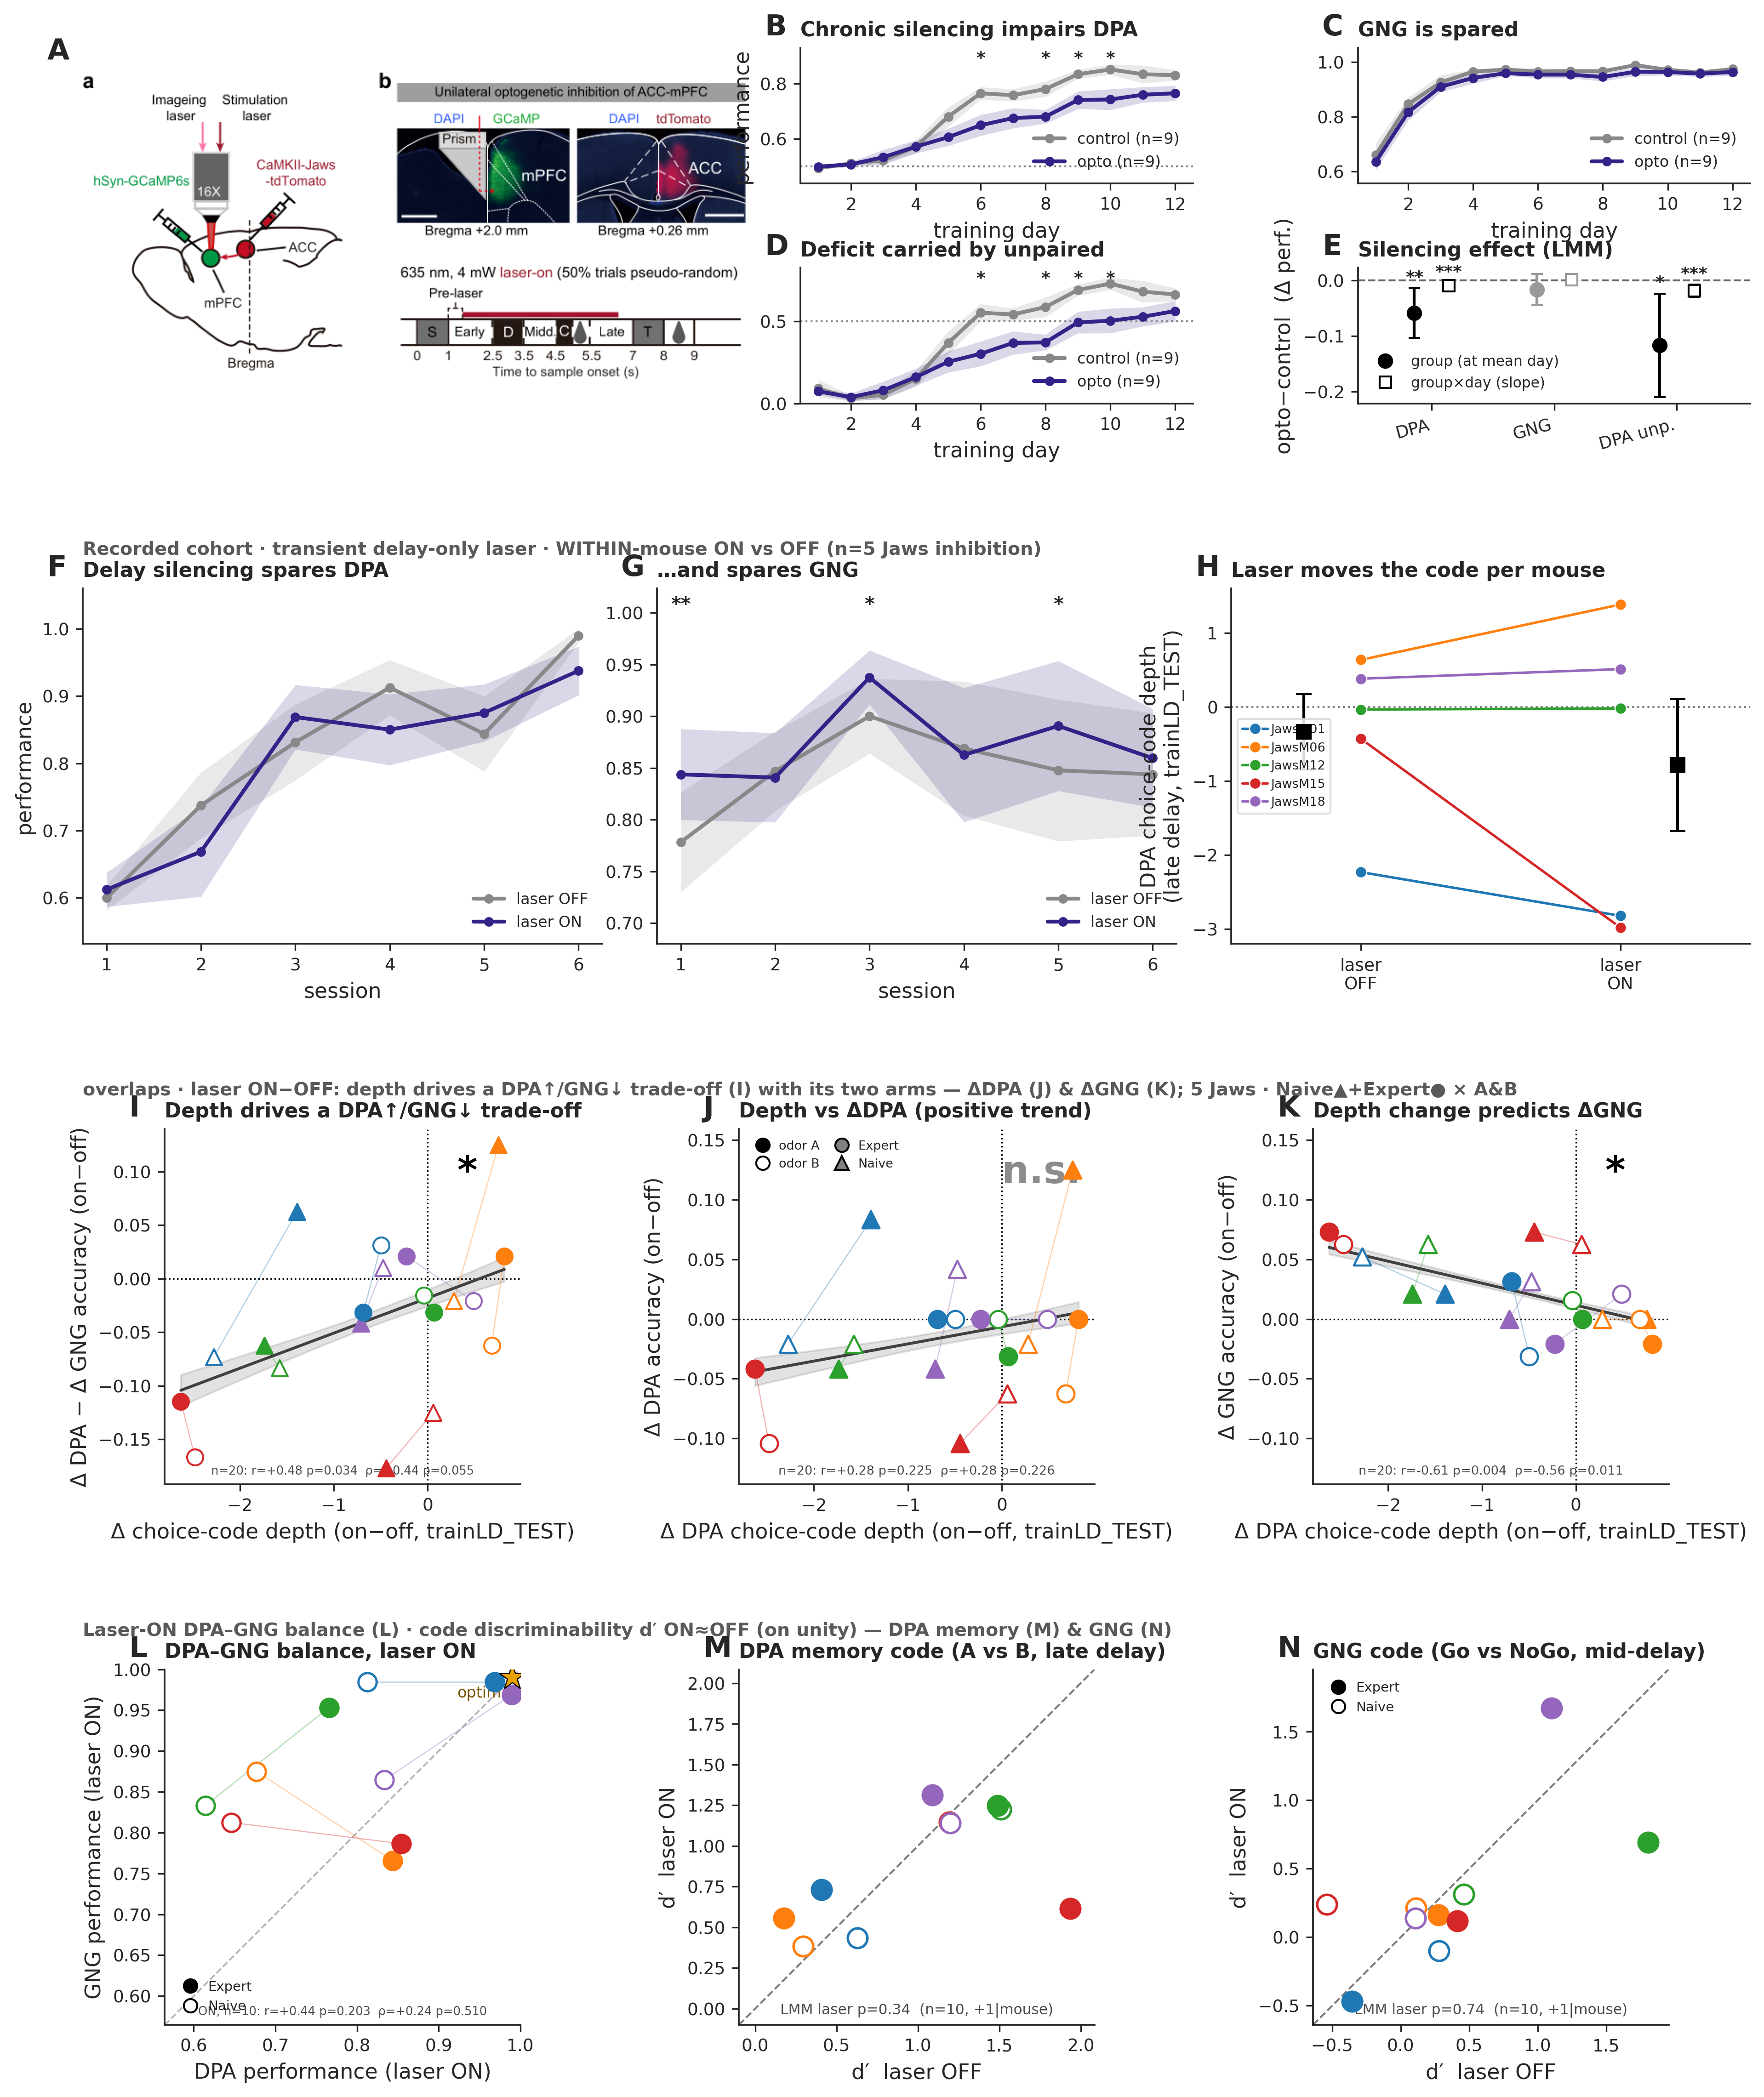
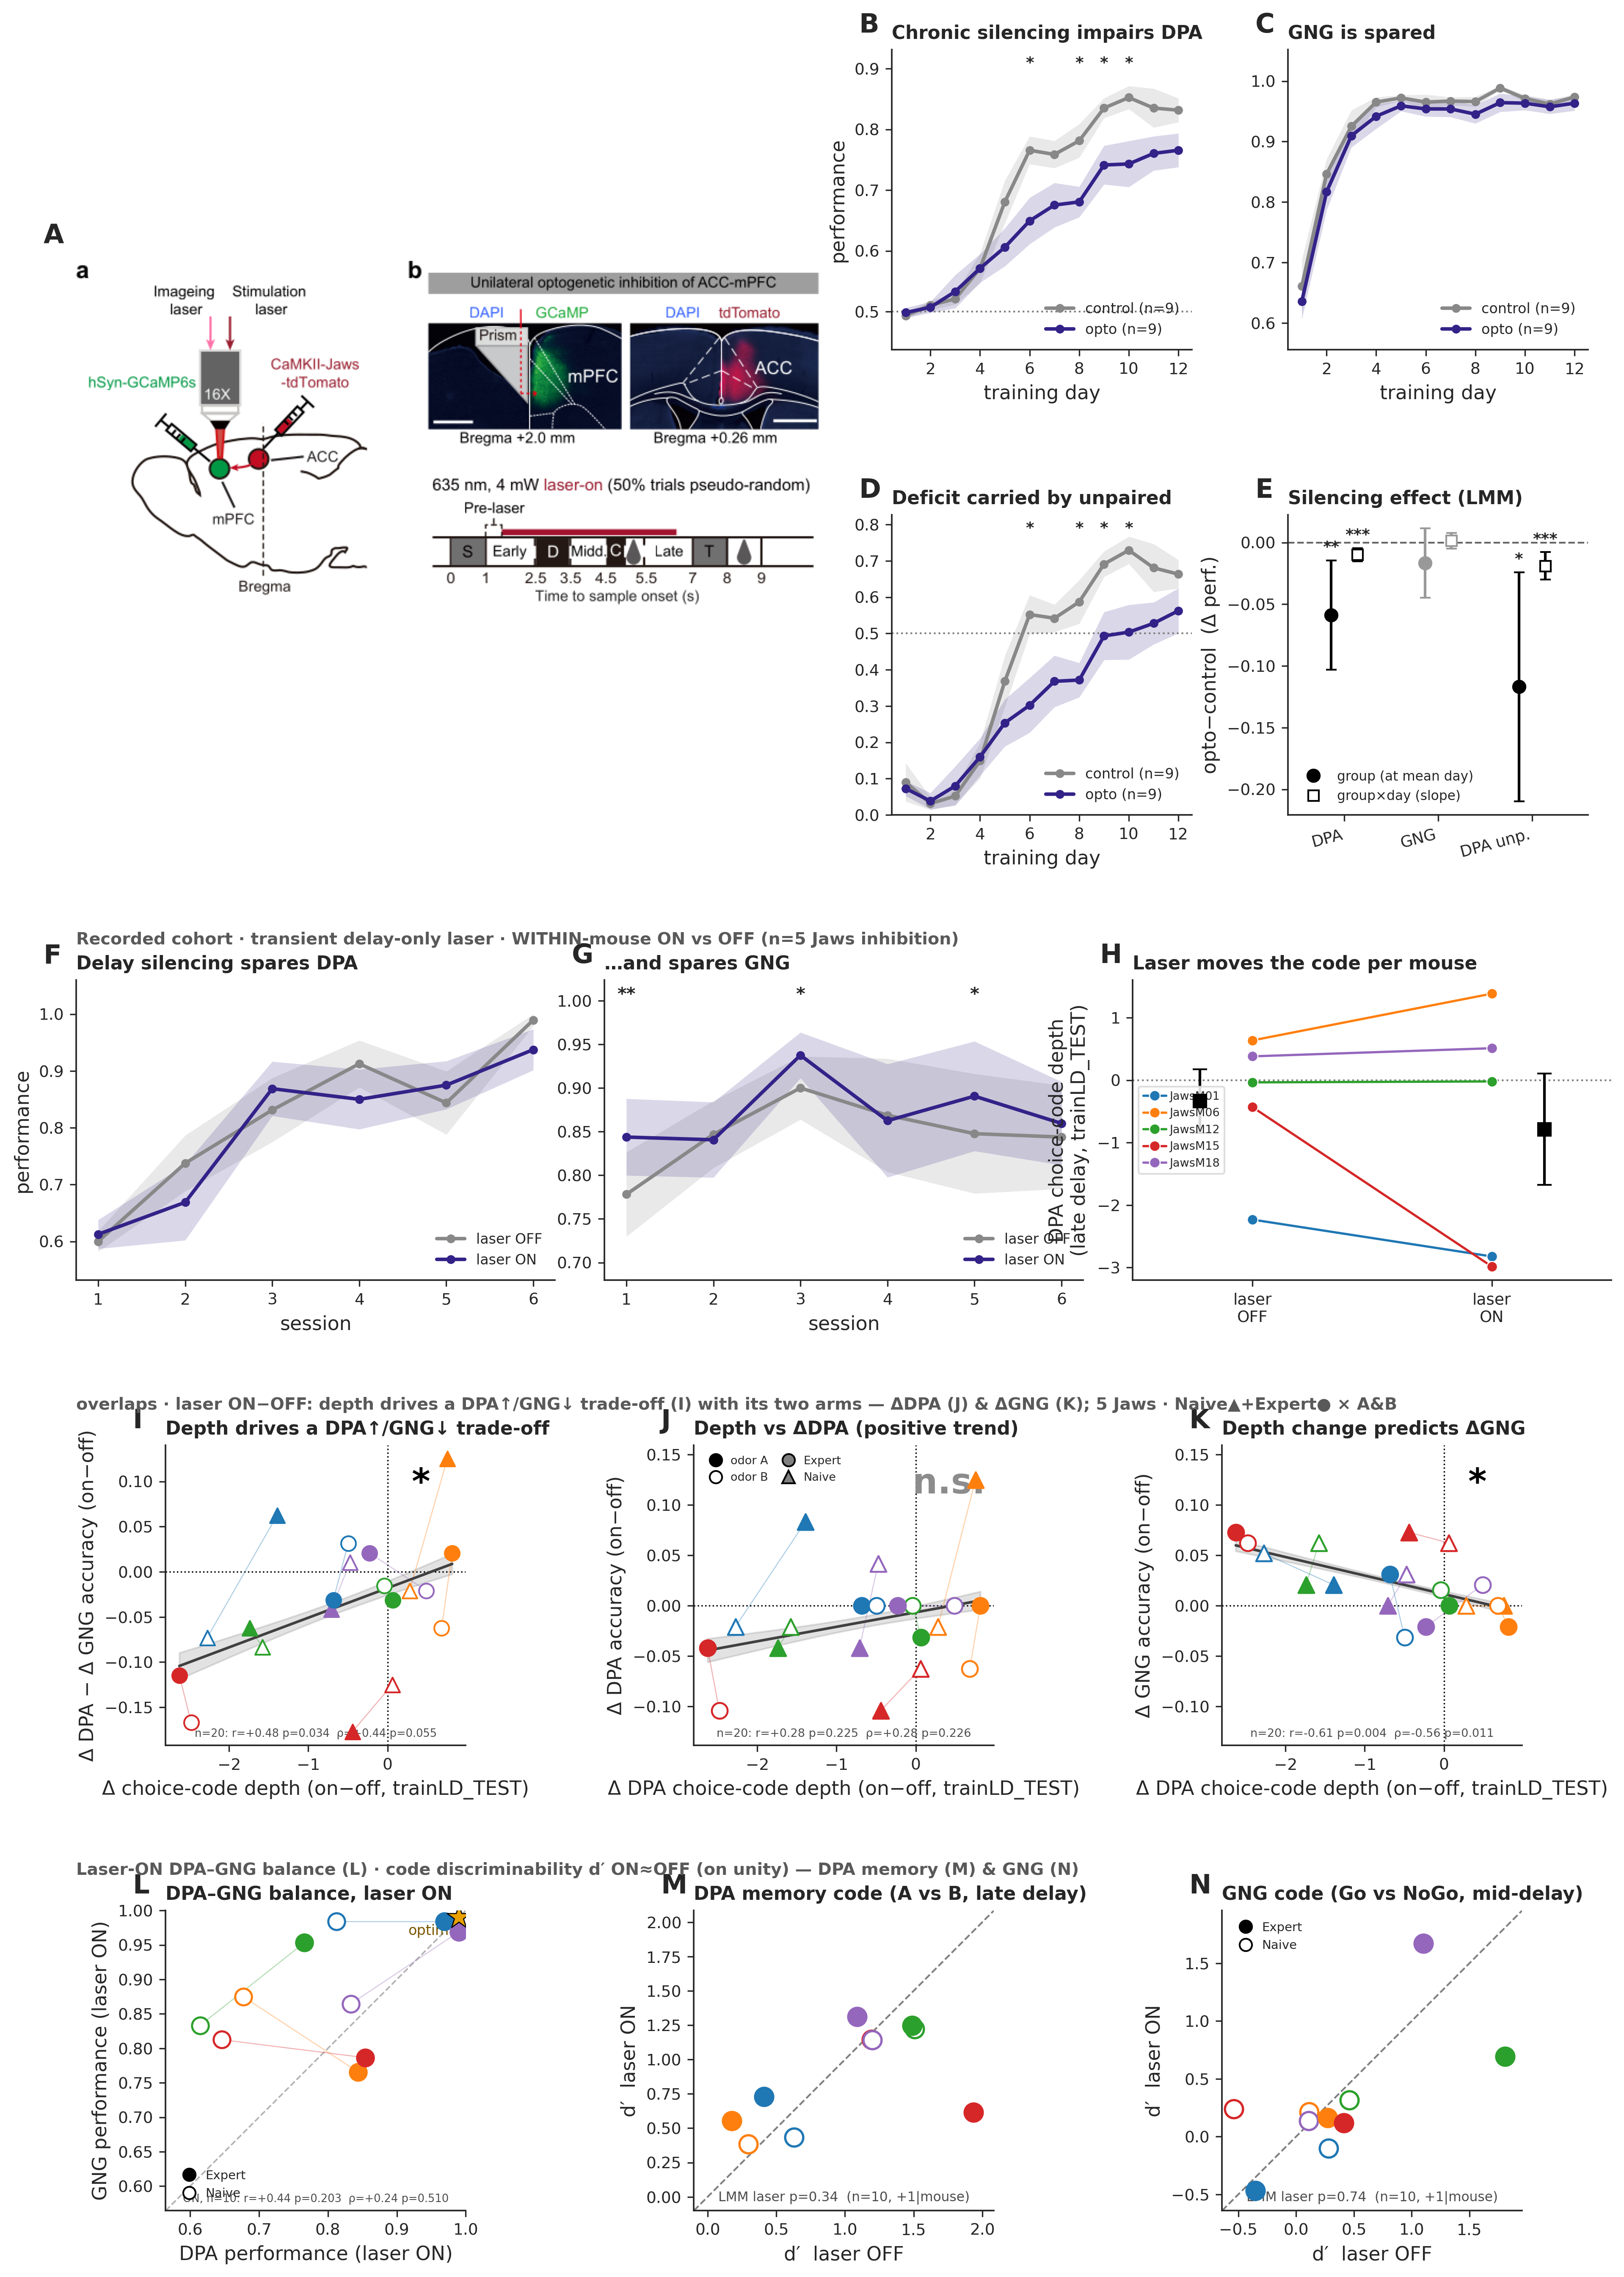
behavior(opto fig): make B-E square — 5 equal rows, A spans top two
box_aspect(1) couldn't square B-E while they were a 2x2 crammed into one short
half-row. Gave each B-E a full row instead: scheme A now spans the top two rows
(gs[0:2, 0:6], left) and batch B/C (row 0) + D/E (row 1) fill the right as a 2x2,
each set_box_aspect(1) -> square. F/G/H, I/J/K, L/M/N follow as rows 3-5.

Single 5 equal-height row gridspec (figsize 13x18.2); reading order stays A-N.
Doc/memory updated.

Claude-Session: https://claude.ai/code/session_01FkQwEmLP97jemLkLvMRg9f

diff --git a/overlaps/fig_behavior_opto_main.py b/overlaps/fig_behavior_opto_main.py
@@ -416,11 +416,11 @@ def regression_band(ax, xs, ys, color='0.25'):
 # ══════════════════════════════════════════════════════════════════════════════
 # FIGURE
 # ══════════════════════════════════════════════════════════════════════════════
-fig = plt.figure(figsize=(13, 15.5))
-# 4 equal-height rows. Top row = scheme A (left) + batch B–E as a 2×2 block (right).
-gs = fig.add_gridspec(4, 12, height_ratios=[1, 1, 1, 1], hspace=0.52, wspace=0.62,
-                      left=0.055, right=0.985, top=0.975, bottom=0.05)
-gs_be = gs[0, 5:12].subgridspec(2, 2, hspace=0.62, wspace=0.42)
+fig = plt.figure(figsize=(13, 18.2))
+# 5 equal-height rows. Scheme A spans the top two rows (left); batch B/C and D/E each
+# get a full row on the right (a 2×2 next to A) so the panels come out square.
+gs = fig.add_gridspec(5, 12, height_ratios=[1, 1, 1, 1, 1], hspace=0.55, wspace=0.6,
+                      left=0.055, right=0.985, top=0.98, bottom=0.045)
 
 
 def panel_letter(ax, L, dx=0.020, dy=0.016):
@@ -437,12 +437,12 @@ def show_scheme(ax, path, aspect='equal'):
 
 # ── A: opto scheme banner ─────────────────────────────────────────────────────
 SCHEME = '../opto.png'                        # recorded-cohort design (self-labelled a/b)
-axA = fig.add_subplot(gs[0, 0:5])
+axA = fig.add_subplot(gs[0:2, 0:6])          # scheme spans the top two rows (left)
 show_scheme(axA, SCHEME)                      # aspect='equal' — no distortion
 
 # ── B, C: recorded OFF vs ON learning curves (Jaws inhibition) — ROW 2 ─────────
-axB = fig.add_subplot(gs[1, 0:4])
-axC = fig.add_subplot(gs[1, 4:8])
+axB = fig.add_subplot(gs[2, 0:4])
+axC = fig.add_subplot(gs[2, 4:8])
 for ax, (short, col, mask), msg in [
         (axB, REC_METRICS[0], 'Delay silencing spares DPA'),
         (axC, REC_METRICS[1], '…and spares GNG')]:
@@ -487,7 +487,7 @@ axB.set_ylabel('performance')
 #   Absolute A&B-pooled DPA choice-code depth per mouse under laser OFF vs ON — shows
 #   the laser reliably moves each animal's code (the shift that is the scatters' x-axis).
 #   (Sits in the recorded within-mouse row; replaced the old LMM laser forest.)
-axK = fig.add_subplot(gs[1, 8:12])
+axK = fig.add_subplot(gs[2, 8:12])
 _offon = {m: (_pooled_depth((y.mouse == m).values, 0),
               _pooled_depth((y.mouse == m).values, 1)) for m in JAWS}
 _offs = np.array([_offon[m][0] for m in JAWS]); _ons = np.array([_offon[m][1] for m in JAWS])
@@ -508,8 +508,8 @@ axK.legend(frameon=True, framealpha=0.85, edgecolor='0.85', fontsize=6.5, loc='c
 # ── J, K: overlaps causal coupling — Δdepth vs Δaccuracy (square) ─────────────
 #   Jaws only, A&B taken as INDEPENDENT points (each mouse → odor-A solid + odor-B open,
 #   joined by a thin line); stats over all 10 points.
-axE = fig.add_subplot(gs[2, 4:8])
-axF = fig.add_subplot(gs[2, 8:12])
+axE = fig.add_subplot(gs[3, 4:8])
+axF = fig.add_subplot(gs[3, 8:12])
 ally = np.array([r[k] for k in ('d_dpa', 'd_gng') for r in rows_ab], float)
 ally = ally[~np.isnan(ally)]
 pad = (ally.max() - ally.min()) * 0.15 or 0.05
@@ -547,9 +547,9 @@ _leg_h = [mlines.Line2D([0], [0], marker='o', color='k', mfc='k', ls='none', ms=
 axE.legend(handles=_leg_h, frameon=False, fontsize=6.5, loc='upper left', handletextpad=0.3, ncol=2, columnspacing=0.8)
 
 # ── G, H, I: batch ACC-Prl control vs opto learning curves — ROW 1 ────────────
-axG = fig.add_subplot(gs_be[0, 0])
-axH = fig.add_subplot(gs_be[0, 1])
-axI = fig.add_subplot(gs_be[1, 0])
+axG = fig.add_subplot(gs[0, 6:9])
+axH = fig.add_subplot(gs[0, 9:12])
+axI = fig.add_subplot(gs[1, 6:9])
 for ax, (short, col, mask_fn), msg in [
         (axG, BATCH_METRICS[0], 'Chronic silencing impairs DPA'),
         (axH, BATCH_METRICS[1], 'GNG is spared'),
@@ -588,7 +588,7 @@ for ax, (short, col, mask_fn), msg in [
 axG.set_ylabel('performance')
 
 # ── J: batch LMM group-effect forest (opto−control β ○ + group×day slope □) ────
-axJ = fig.add_subplot(gs_be[1, 1])
+axJ = fig.add_subplot(gs[1, 9:12])
 for i, (short, col, mask_fn) in enumerate(BATCH_METRICS):
     gb, glo, ghi, gp, ib, ilo, ihi, ip = batch_lmm(col, mask_fn)
     for dx, val, vlo, vhi, pv, mk, fill in [(-0.14, gb, glo, ghi, gp, 'o', True),
@@ -611,12 +611,14 @@ axJ.set_title('Silencing effect (LMM)', loc='left', fontweight='bold', fontsize=
 axJ.legend(handles=[mlines.Line2D([0], [0], marker='o', color='k', ls='none', ms=7, label='group (at mean day)'),
                     mlines.Line2D([0], [0], marker='s', color='k', mfc='white', ls='none', ms=6, label='group×day (slope)')],
            frameon=False, fontsize=7.5, loc='best')
+for _a in (axG, axH, axI, axJ):                  # square B–E panels
+    _a.set_box_aspect(1)
 
 # ── I: depth → DPA/GNG TRADE-OFF contrast (headline coupling stat) — with J,K ──
 #   Trade-off hypothesis (depth↑ → DPA↑ AND GNG↓) makes one joint prediction: depth
 #   positively predicts (ΔDPA − ΔGNG). On the pre-committed trainLD_TEST axis this pools
 #   both arms (J/K, same row) and is significant with no window search: r=+0.48 p=0.034.
-axL = fig.add_subplot(gs[2, 0:4])
+axL = fig.add_subplot(gs[3, 0:4])
 _xdep = np.array([r['d_depth'] for r in rows_ab])
 _ytr = np.array([r['d_dpa'] - r['d_gng'] for r in rows_ab])          # trade-off contrast
 for mouse in JAWS:
@@ -641,8 +643,8 @@ axL.set_title('Depth drives a DPA↑/GNG↓ trade-off', loc='left', fontweight='
 axL.set_box_aspect(1)
 
 # ── M, N: neural d′ laser ON vs OFF (per mouse) — points on unity = spared ──────
-axM = fig.add_subplot(gs[3, 4:8])
-axN = fig.add_subplot(gs[3, 8:12])
+axM = fig.add_subplot(gs[4, 4:8])
+axN = fig.add_subplot(gs[4, 8:12])
 
 
 def _dprime_scatter(ax, dfw, lmm, title):
@@ -668,7 +670,7 @@ axN.legend(handles=[mlines.Line2D([0], [0], marker='o', color='k', mfc='k', ls='
 # ── L: DPA vs GNG performance in laser-ON trials (Naive ○ + Expert ●, 10 pts) ──
 #   Balance plane of the non-opto main figure, restricted to laser-ON trials: per mouse ×
 #   stage, where does the ON-trial behaviour sit relative to the DPA=GNG diagonal / optimum?
-axBal = fig.add_subplot(gs[3, 0:4])
+axBal = fig.add_subplot(gs[4, 0:4])
 _dON = y[(y.target == 'choice') & y.mouse.isin(JAWS) & (y.laser == 1)]
 
 

diff --git a/docs/behavior.md b/docs/behavior.md
@@ -284,10 +284,11 @@ dual-DPA `#ff7f0e` orange (compare figure only).
 
 Companion to the main figure; one unified story about the **ACC→mPFC(Prl)** projection across
 manipulation regimes. `figures/overlaps/behavior/{png,svg}/behavior_opto_main.*`. Layout =
-a single **4 equal-height row** gridspec: **top row = scheme A (left, cols 0:5) + batch B–E as a
-2×2 block (right, cols 5:12)**; then F–H, I–K, L–N. No bottom caption strip (removed); message-titled
-panels; row banners over the recorded / overlaps / last rows (the batch top row has none — no room
-against the figure edge, panels are self-titled). Helpers copied inline from
+a single **5 equal-height row** gridspec: **scheme A spans the top two rows (left, cols 0:6);
+batch B/C fill row 0 and D/E fill row 1 (right, cols 6:9 & 9:12) — a 2×2 next to A, each panel
+`set_box_aspect(1)` so B–E come out square**; then F–H (row 2), I–K (row 3), L–N (row 4). No bottom
+caption strip (removed); message-titled panels; row banners over the recorded / overlaps / last rows
+(the batch band has none — panels are self-titled). Helpers copied inline from
 `fig_behavior_learning_offon.py`, `fig_behavior_learning_batch.py --ctrlopto`, and
 `plot_scatter_laser.py`, so those stay untouched. Panels:
 - **A** — scheme from `~/dual/opto.png` (recorded-cohort design: hSyn-GCaMP6s imaging in mPFC +